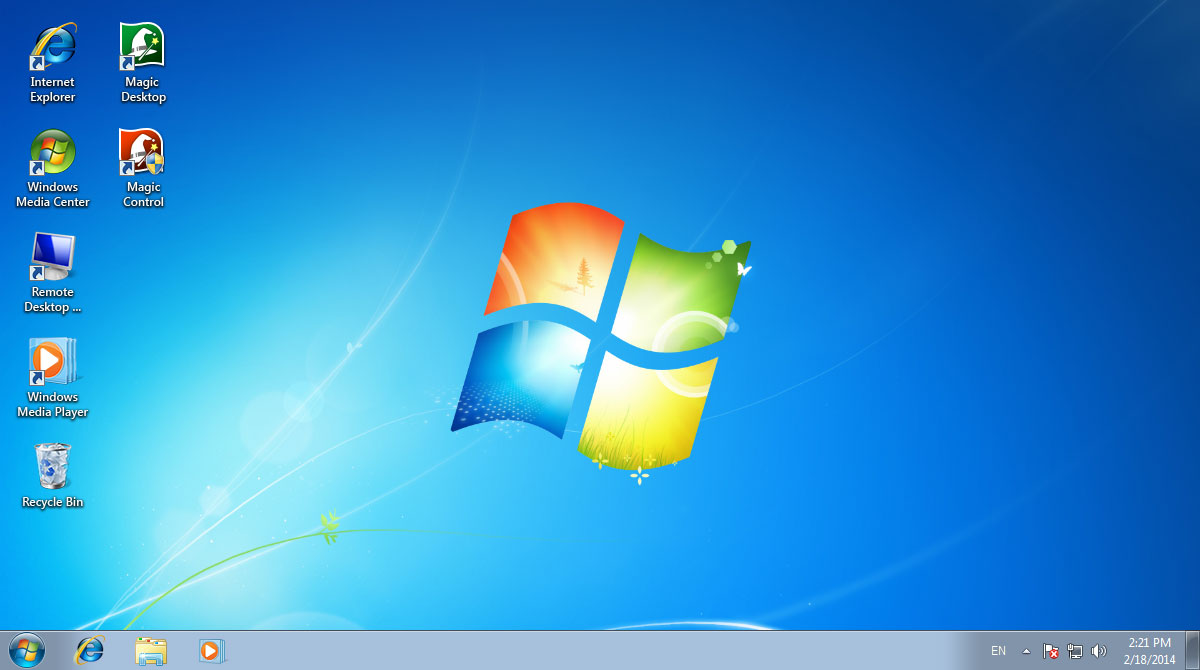
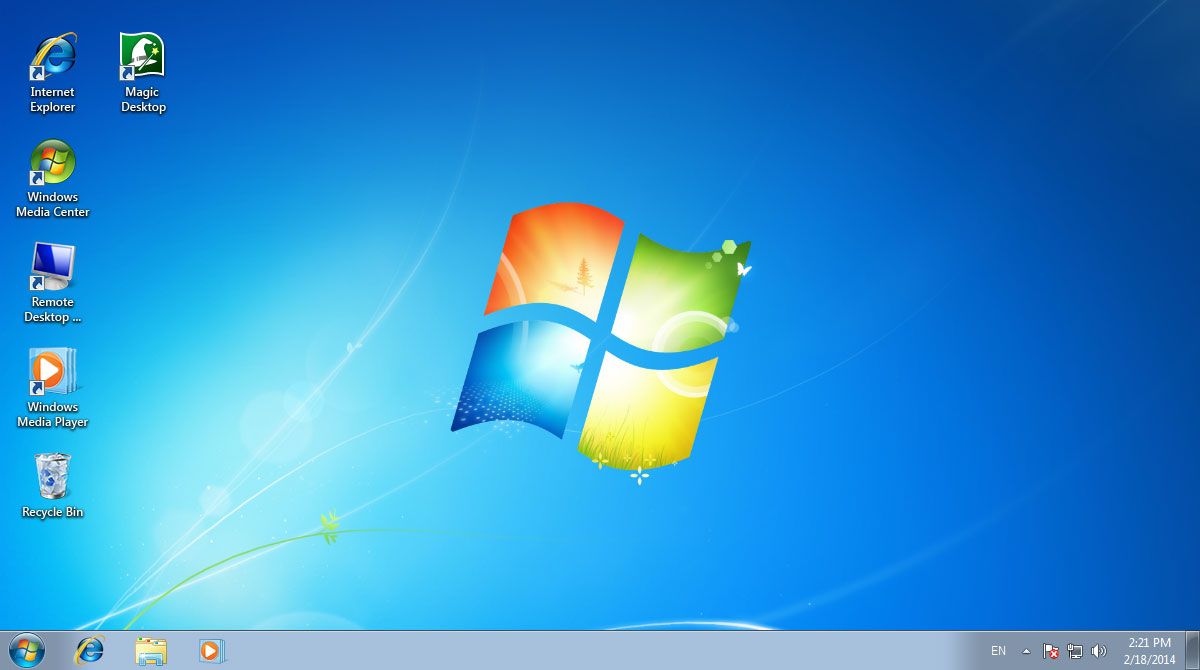
page 'landing2': change windows bg; add hints; change hotspot's sizes; add 'back to windows' functionality;

Changed region(s): [[0.0, 0.0299, 0.1542, 0.7761]]

diff --git a/desktop.blocks/landing-demo/landing-demo.js b/desktop.blocks/landing-demo/landing-demo.js
@@ -2,7 +2,11 @@ BEM.DOM.decl('landing-demo', {
     onSetMod: {
         'js': {
             'inited': function() {
+                var showHints = true;
+
                 this.bindTo('click', function() {
+                    if(this.getMod('view') === 'magic-desktop') return;
+
                     (function(t) {
                          var config = {
                                  count: 8,
@@ -46,18 +50,26 @@ BEM.DOM.decl('landing-demo', {
                                     .transition({ opacity: 0 }, config.effectDuration);
                             });
 
-                            t.elem('mask').delay(config.transitionDuration).hide(0);
+                            t.elem('mask').delay(config.transitionDuration).hide(0, function() {
+                                t.elem('mask').html('');
+                            });
                         }, 250);
                     }(this));
 
-                    this.setMod('view', 'magic-desktop');
+                    if(showHints) {
+                        showHints = false;
+                        this.setMod(this.elem('hint', 'target', 'md'), 'hidden', 'yes');
+                        this.delMod(this.elem('hint', 'target', 'windows'), 'hidden');
+                    }
 
-                    this.unbindFrom('click');
+                    this.setMod('view', 'magic-desktop');
                 });
 
-                this.bindTo(this.elem('btn'), 'click', function(e) {
-                    var relativeTargetName = this.getMod($(e.target), 'action'),
+                this.bindTo(this.elem('hotspot'), 'click', function(e) {
+                    var relativeTargetName = this.getMod($(e.currentTarget).parent(), 'action'),
                         relativeTarget = (relativeTargetName && this.elem('popup', 'type', relativeTargetName)) || null;
+
+                    this.setMod(this.elem('hint', 'target', 'windows'), 'hidden', 'yes');
 
                     if ( relativeTarget ) {
                         if ( relativeTargetName === 'personalization' ) {
@@ -80,8 +92,66 @@ BEM.DOM.decl('landing-demo', {
                     this.hasMod(popup, 'hidden') && this.delMod('focused', 'yes');
                 });
 
-                this.bindTo(this.elem('btn', 'action', 'toggle'), 'click', function() {
+                this.bindTo(this.findElem(this.elem('btn', 'action', 'toggle'), 'hotspot'), 'click', function() {
                     this.toggleMod(this.elem('panel', 'side', 'left'), 'hidden', 'yes');
+                });
+
+                this.bindTo(this.findElem(this.elem('btn', 'action', 'exit-md'), 'hotspot'), 'click', function() {
+                    this.elem('mask').css('background-image', 'none').show(0);
+
+                    (function(t) {
+                        var config = {
+                                count: 8,
+                                effectDuration: 300,
+                                transitionDuration: 750
+                            },
+                            src = '../../desktop.blocks/landing-demo/landing-demo-win.jpg',
+                            itemWidth = t.elem('mask').width() / config.count,
+                            itemHeight = t.elem('mask').height() / config.count,
+                            delayKoef = (config.transitionDuration - config.effectDuration) / (config.count * 2 - 1),
+                            items = $();
+
+                        for ( var j = 0; j < config.count; j += 1 ) {
+                            for ( var i = 0; i < config.count; i += 1 ) {
+                                var item = $('<div></div>');
+
+                                items = items.add(item);
+
+                                item.css({
+                                    background: 'url(' + src + ') ' + (-i * itemWidth) + 'px ' + (-j * itemHeight) + 'px no-repeat',
+                                    position: 'absolute',
+                                    left: i * itemWidth + 'px',
+                                    top: j * itemHeight + 'px',
+                                    width: itemWidth + 'px',
+                                    height: itemHeight + 'px',
+                                    opacity: 0
+                                });
+                            }
+                        }
+
+                        t.elem('mask').append(items);
+
+                        // задержка на reflow
+                        setTimeout(function() {
+                            t.elem('mask').css({ background: 'none' });
+
+                            items.each(function(index) {
+                                var col = index % config.count,
+                                    row = (index -  col) / config.count;
+
+                                $(this).delay((config.count - row + col) * delayKoef)
+                                    .transition({ opacity: 1 }, config.effectDuration);
+                            });
+
+                            t.elem('mask').delay(config.transitionDuration).show(0, function() {
+                                t.elem('mask').css({ backgroundImage: '' }).html('');
+                            });
+                        }, 250);
+                    }(this));
+
+                    this.setMod('view', 'windows');
+
+                    return false;
                 });
             }
         }

diff --git a/desktop.blocks/landing-demo/__btn/_action/landing-demo__btn_action_toggle.css b/desktop.blocks/landing-demo/__btn/_action/landing-demo__btn_action_toggle.css
@@ -2,11 +2,16 @@
 {
     width: 85px;
     height: 43px;
+}
+
+.landing-demo__btn_action_toggle .landing-demo__btn-view
+{
+    outline: none;
[1 lines of base64/hex data omitted]
     background-repeat: no-repeat;
 }
 
-.landing-demo__panel_hidden_yes .landing-demo__btn_action_toggle
+.landing-demo__panel_hidden_yes .landing-demo__btn_action_toggle .landing-demo__btn-view
 {
[1 lines of base64/hex data omitted]
 }

diff --git a/desktop.bundles/landing2/landing2.bemjson.js b/desktop.bundles/landing2/landing2.bemjson.js
@@ -125,9 +125,11 @@
                                             src: '/desktop.blocks/landing-demo/landing-demo-win.jpg'
                                         }
                                     },
+
                                     {
                                         elem: 'mask'
                                     },
+
                                     {
                                         elem: 'panel',
                                         elemMods: {
@@ -179,13 +181,32 @@
                                     },
 
                                     {
+                                        elem: 'hint',
+                                        elemMods: {
+                                            target: 'windows',
+                                            hidden: 'yes'
+                                        }
+                                    },
+                                    {
+                                        elem: 'hint',
+                                        elemMods: {
+                                            target: 'md'
+                                        }
+                                    },
+
+                                    {
                                         elem: 'popup',
                                         elemMods: {
                                             type: 'parent-control',
                                             hidden: 'yes'
+                                        },
+                                        content : {
+                                            elem : 'btn',
+                                            elemMods : {
+                                                action : 'exit-md'
+                                            }
                                         }
                                     },
-
                                     {
                                         elem: 'popup',
                                         elemMods: {
@@ -193,7 +214,6 @@
                                             hidden: 'yes'
                                         }
                                     },
-
                                     {
                                         elem: 'popup',
                                         elemMods: {
@@ -221,7 +241,6 @@
                                             hidden: 'yes'
                                         }
                                     },
-
                                     {
                                         elem: 'popup',
                                         elemMods: {

diff --git a/desktop.blocks/landing-demo/__btn/_action/landing-demo__btn_action_parent-control.css b/desktop.blocks/landing-demo/__btn/_action/landing-demo__btn_action_parent-control.css
@@ -1,6 +1,12 @@
 .landing-demo__btn_action_parent-control
 {
-    width: 124px;
+    width: 157px;
     height: 32px;
+}
+
+.landing-demo__btn_action_parent-control .landing-demo__btn-view
+{
[1 lines of base64/hex data omitted]
+    background-position: 50% 0;
+    background-repeat: no-repeat;
 }

diff --git a/desktop.blocks/landing-demo/__btn/_action/landing-demo__btn_action_start.css b/desktop.blocks/landing-demo/__btn/_action/landing-demo__btn_action_start.css
@@ -1,6 +1,11 @@
 .landing-demo__btn_action_start
 {
-    width: 68px;
+    width: 84px;
     height: 32px;
+}
+
+.landing-demo__btn_action_start .landing-demo__btn-view
+{
[1 lines of base64/hex data omitted]
+    background-repeat: no-repeat;
 }

diff --git a/desktop.blocks/landing-demo/__btn/_action/landing-demo__btn_action_choose.css b/desktop.blocks/landing-demo/__btn/_action/landing-demo__btn_action_choose.css
@@ -2,7 +2,11 @@
 {
     width: 85px;
     height: 43px;
-    outline: none !important;
+}
+
+.landing-demo__btn_action_choose .landing-demo__btn-view
+{
+    outline: none;
[1 lines of base64/hex data omitted]
     background-repeat: no-repeat;
 }

diff --git a/desktop.blocks/landing-demo/__btn/landing-demo__btn.css b/desktop.blocks/landing-demo/__btn/landing-demo__btn.css
@@ -1,5 +1,25 @@
 .landing-demo__btn
 {
+    position: relative;
+}
+
+.landing-demo__btn-view
+{
+    position: absolute;
+    top: 0;
+    right: 0;
+    bottom: 0;
+    left: 0;
     outline: 2px solid #ffcc33;
+}
+
+.landing-demo__btn .landing-demo__hotspot
+{
+    position: absolute;
+    top: 0;
+    right: 0;
+    bottom: 0;
+    left: 0;
+    z-index: 1;
     cursor: pointer;
 }

diff --git a/desktop.blocks/landing-demo/__btn/_action/landing-demo__btn_action_personalization.css b/desktop.blocks/landing-demo/__btn/_action/landing-demo__btn_action_personalization.css
@@ -1,8 +1,8 @@
 .landing-demo__btn_action_personalization
 {
     position: absolute;
-    bottom: 395px;
-    left: 85px;
+    bottom: 403px;
+    left: 90px;
     width: 220px;
-    height: 90px;
+    height: 70px;
 }

diff --git a/desktop.blocks/landing-demo/__hint/_target/landing-demo__hint_target_md.css b/desktop.blocks/landing-demo/__hint/_target/landing-demo__hint_target_md.css
@@ -1,0 +1,9 @@
+.landing-demo__hint_target_md
+{
+    top: 43px;
+    left: 177px;
+    z-index: 1;
+    width: 321px;
+    height: 230px;
+    background-image: url(landing-demo__hint_target_md.png);
+}

diff --git a/desktop.blocks/landing-demo/__hint/_target/landing-demo__hint_target_windows.css b/desktop.blocks/landing-demo/__hint/_target/landing-demo__hint_target_windows.css
@@ -1,0 +1,8 @@
+.landing-demo__hint_target_windows
+{
+    bottom: 21px;
+    left: 73px;
+    width: 462px;
+    height: 280px;
+    background-image: url(landing-demo__hint_target_windows.png);
+}

diff --git a/desktop.blocks/landing-demo/__hint/landing-demo__hint.css b/desktop.blocks/landing-demo/__hint/landing-demo__hint.css
@@ -1,0 +1,10 @@
+.landing-demo__hint
+{
+    position: absolute;
+    background-repeat: no-repeat;
+}
+
+.landing-demo__hint_hidden_yes
+{
+    display: none;
+}

diff --git a/desktop.blocks/landing-demo/__btn/_action/landing-demo__btn_action_exit-md.css b/desktop.blocks/landing-demo/__btn/_action/landing-demo__btn_action_exit-md.css
@@ -1,0 +1,8 @@
+.landing-demo__btn_action_exit-md
+{
+    position: absolute;
+    bottom: 296px;
+    left: 88px;
+    width: 248px;
+    height: 71px;
+}
